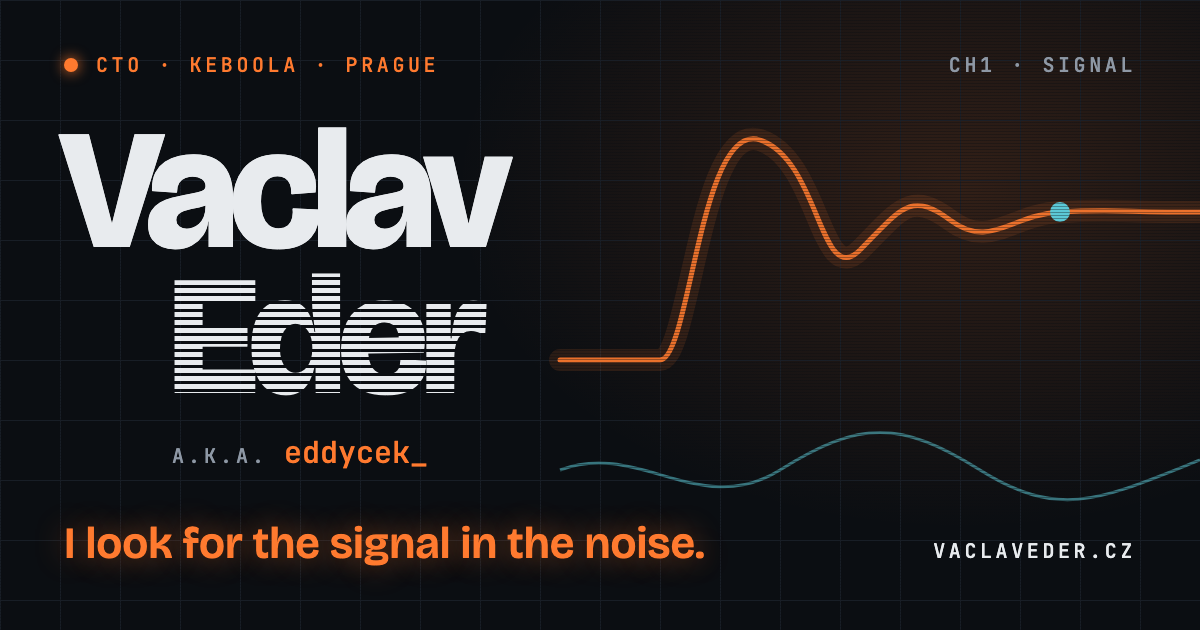
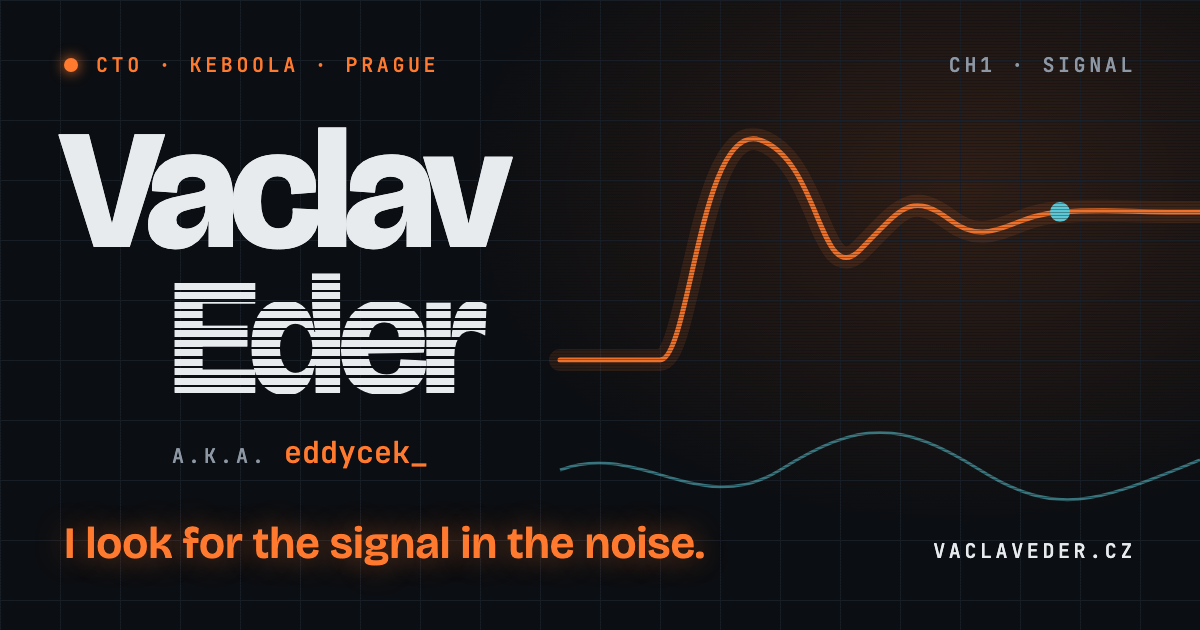
Brighter striped Eder, external links in new tab, Copy label

Changed region(s): [[0.1233, 0.4222, 0.4008, 0.6333], [0.1233, 0.4222, 0.2158, 0.4825]]

diff --git a/src/scripts/boot.ts b/src/scripts/boot.ts
@@ -21,3 +21,13 @@ mountCursorField();
 
 import { mountSparks } from './spark';
 mountSparks();
+
+// External links (other hosts) open in a new tab, safely.
+document.querySelectorAll<HTMLAnchorElement>('a[href^="http"]').forEach((a) => {
+  if (a.host === location.host) return;
+  a.target = '_blank';
+  const rel = new Set((a.rel || '').split(/\s+/).filter(Boolean));
+  rel.add('noopener');
+  rel.add('noreferrer');
+  a.rel = Array.from(rel).join(' ');
+});

diff --git a/src/content/cs.ts b/src/content/cs.ts
@@ -246,8 +246,8 @@ export const content: SiteContent = {
     imessageLabel: 'iMessage',
     whatsappLabel: 'WhatsApp',
     phoneLabel: 'Telefon',
-    copyLabel: 'Kopírovat',
-    copiedLabel: 'Zkopírováno',
+    copyLabel: 'Copy',
+    copiedLabel: 'Copied',
     reasons: [
       'stavíš data nebo AI platformu a řešíš její provoz ve scale',
       'chceš probrat Dark Factory, AI agenty v produkci nebo AI adopci napříč firmou',

diff --git a/CLAUDE.md b/CLAUDE.md
@@ -6,7 +6,7 @@ Personal site of Václav "eddycek" Eder. Astro (static), vanilla Canvas animatio
 - All copy lives in `src/content/cs.ts` and `src/content/en.ts` (same shape, `types.ts`). Keep both in sync.
 - `src/content/slayer.ts` holds the full poem (verbatim, never edit wording).
 - Contact details and social links: `src/content/contact.ts`.
-- Style rules for copy: no em dash; use semicolons instead of colons in prose; "Dark Factory" capitalised; "kontent" instead of "obsah"; "independent" for artists; "MacBook" not "notebook". Czech copy uses ty (tykání, "Napiš mi"), never vy. Use Eddy's anglicisms (business, shipovat, mindset, game changer, scale…). "Music" not "hudba", "Cyber security" not "Security". Hero shows "Vaclav" without diacritics; meta and JSON-LD keep "Václav". Never mention moving to Prague. Hero (final, do not change): "Vaclav" solid light, "Eder" with the original scanline fill (3px ink / 2px gap), indented. Never put game or film artwork or a recognisable character likeness on the site.
+- Style rules for copy: no em dash; use semicolons instead of colons in prose; "Dark Factory" capitalised; "kontent" instead of "obsah"; "independent" for artists; "MacBook" not "notebook". Czech copy uses ty (tykání, "Napiš mi"), never vy. Use Eddy's anglicisms (business, shipovat, mindset, game changer, scale…). "Music" not "hudba", "Cyber security" not "Security". Hero shows "Vaclav" without diacritics; meta and JSON-LD keep "Václav". Never mention moving to Prague. Hero (final, do not change): "Vaclav" solid light, "Eder" with scanlines (4px ink / 1.5px gap) so it reads as bright as "Vaclav", indented. Never put game or film artwork or a recognisable character likeness on the site.
 
 ## Workflow for every change
 1. `npm run dev` for live work (http://localhost:4321).
